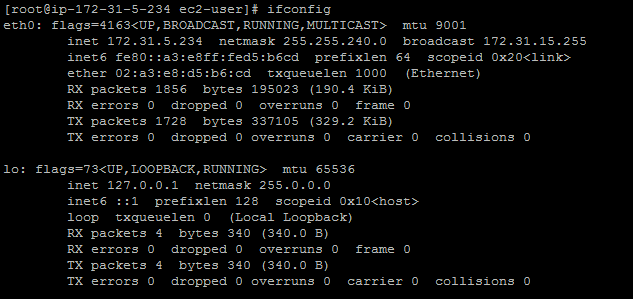
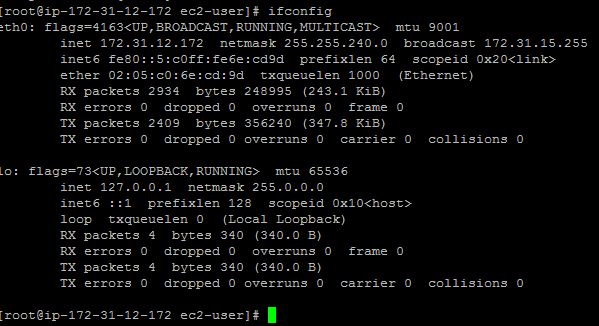
Complete the system configuration checks. Updated the 1_preinstall.md and added screenshots to png folder

diff --git a/installation/labs/1_preinstall.md b/installation/labs/1_preinstall.md
@@ -2,9 +2,89 @@
 ## 1_preinstall.md steps
 
 ## Setting swappiness to 1
-`cat /prod/sys/vm/swappiness`
-`sudo su root`
-`sudo echo 1 > /prod/sys/vm/swappiness`
+```
+cat /proc/sys/vm/swappiness
+sudo su root
+sudo echo 1 > /proc/sys/vm/swappiness
+```
 
 ## Mount Attributes of volume
-`df -k`
+```
+df -k
+```
+Check what devices are available:
+```
+lsblk
+```
+Is the file system installed:
+```
+sudo file -s /dev/xvdb
+```
+Showing of 'data' means no OS is installed
+```
+sudo mkfs -t ext4 /dev/xvdb
+sudo mkdir /data_xvdb
+sudo mount /dev/xvdb /data_xvdb
+```
+UUID of the mounted volume can be checked as follows:
+```
+ls -al /dev/disk/by-uuid/
+```
+then: 
+```
+sudo vi /etc/fstab: 
+UUID=enter the UUID from the command above here /data_xvdb              ext4    defaults        0 2 
+
+863a9b5e-4f12-4ce8-a74a-c641a2e80c1b Node1
+fc1c96be-b9c2-4241-a623-67221b00a1bc Node2
+42412fcd-7b51-4839-8845-e578e8d9920e Node3
+9dc9cfce-24e1-4bd4-9116-f4dabf3e1502 Node4
+8811e924-01a3-4938-ba34-42598f1f5dd4 Node5
+```
+Physical attributes can be checked using `df -k` or `lsblk`
+
+## Reserve Space Listing
+`sudo  tune2fs -l /dev/xvdb`
+
+## Turn off Transparent Hugepage
+```
+cat /sys/kernel/mm/transparent_hugepage/enabled
+sudo su root
+echo never >/sys/kernel/mm/transparent_hugepage/enabled
+```
+
+## List Network Interface Configuration
+`ifconfig`
+
+## Forward Reverse Host Lookups
+Change hostname 
+```
+sudo vi /etc/hosts
+172.31.12.172   ec2-54-252-147-158.ap-southeast-2.compute.amazonaws.com
+172.31.10.136   ec2-54-206-92-189.ap-southeast-2.compute.amazonaws.com
+172.31.1.28   ec2-54-206-57-163.ap-southeast-2.compute.amazonaws.com
+172.31.6.209   ec2-54-252-150-153.ap-southeast-2.compute.amazonaws.com
+172.31.5.234   ec2-54-206-60-153.ap-southeast-2.compute.amazonaws.com
+```
+
+Used `getent hosts <IP>` to get the hostname details. Snapshot attached.
+nslookup was not installed so ran the following to install utility:
+`sudo yum install bind-utils`
+
+## NSCD Service
+`service nscd status`
+NSCD service was not active and not installed so used the following command to install it first:
+`sudo yum install nscd`
+Started the nscd service
+`sudo service nscd start`
+Check that service is running
+`service nscd status`
+
+## NTPD Service
+`service ntpd status`
+NTPD service was not active and installed so used the following command to install it first:
+`sudo yum install ntp`
+Started the ntpd service
+`sudo service ntpd start`
+Check that service is running
+`service ntp status`

diff --git a/installation/labs/0_nodeIPs.md b/installation/labs/0_nodeIPs.md
@@ -1,8 +1,9 @@
 # Cloudera Services Bootcamp Sydney May 2017
 ## EC2 Node IPs
-
-`54.206.76.24`
-`54.252.147.21`
-`54.252.138.67`
-`54.206.43.231`
-`54.206.42.69`
+```
+54.252.147.158 
+54.206.92.189
+54.206.57.163
+54.252.150.153
+54.206.60.153
+```
